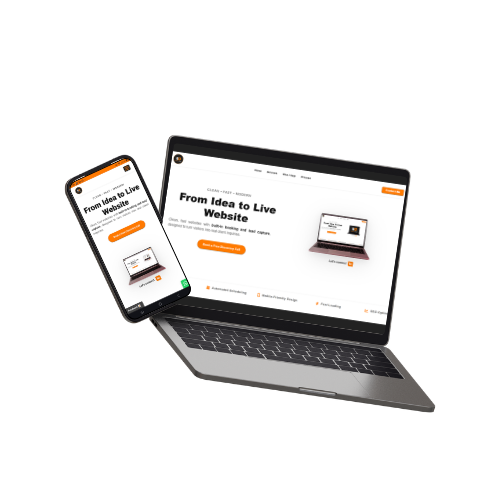
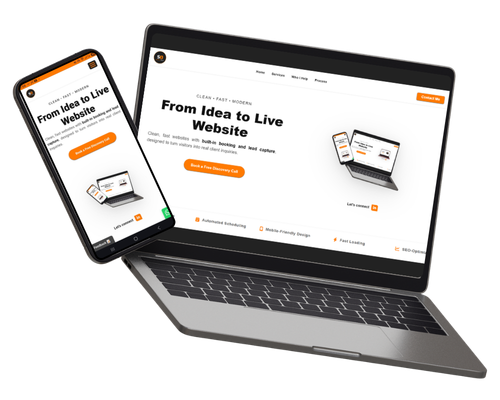
modified:   index.php, photo/profile-hero.png

Changed region(s): [[0.0, 0.06, 0.99, 0.96]]

diff --git a/index.php b/index.php
@@ -116,7 +116,7 @@
     <link href="https://assets.calendly.com/assets/external/widget.css" rel="stylesheet" />
 
     <div class="card hidden animate-up">
-      <img src="photo/hero-profile.png" alt="Samira Omar profile" fetchpriority="high" loading="lazy" />
+      <img src="photo/hero-profile.webp" alt="Samira Omar profile" fetchpriority="high" loading="lazy" />
       <div class="card-linkedin">
         <span class="connect-text">Let's connect</span>
         <a href="https://www.linkedin.com/in/samira-omar/" class="linkedin-hero" target="_blank">
